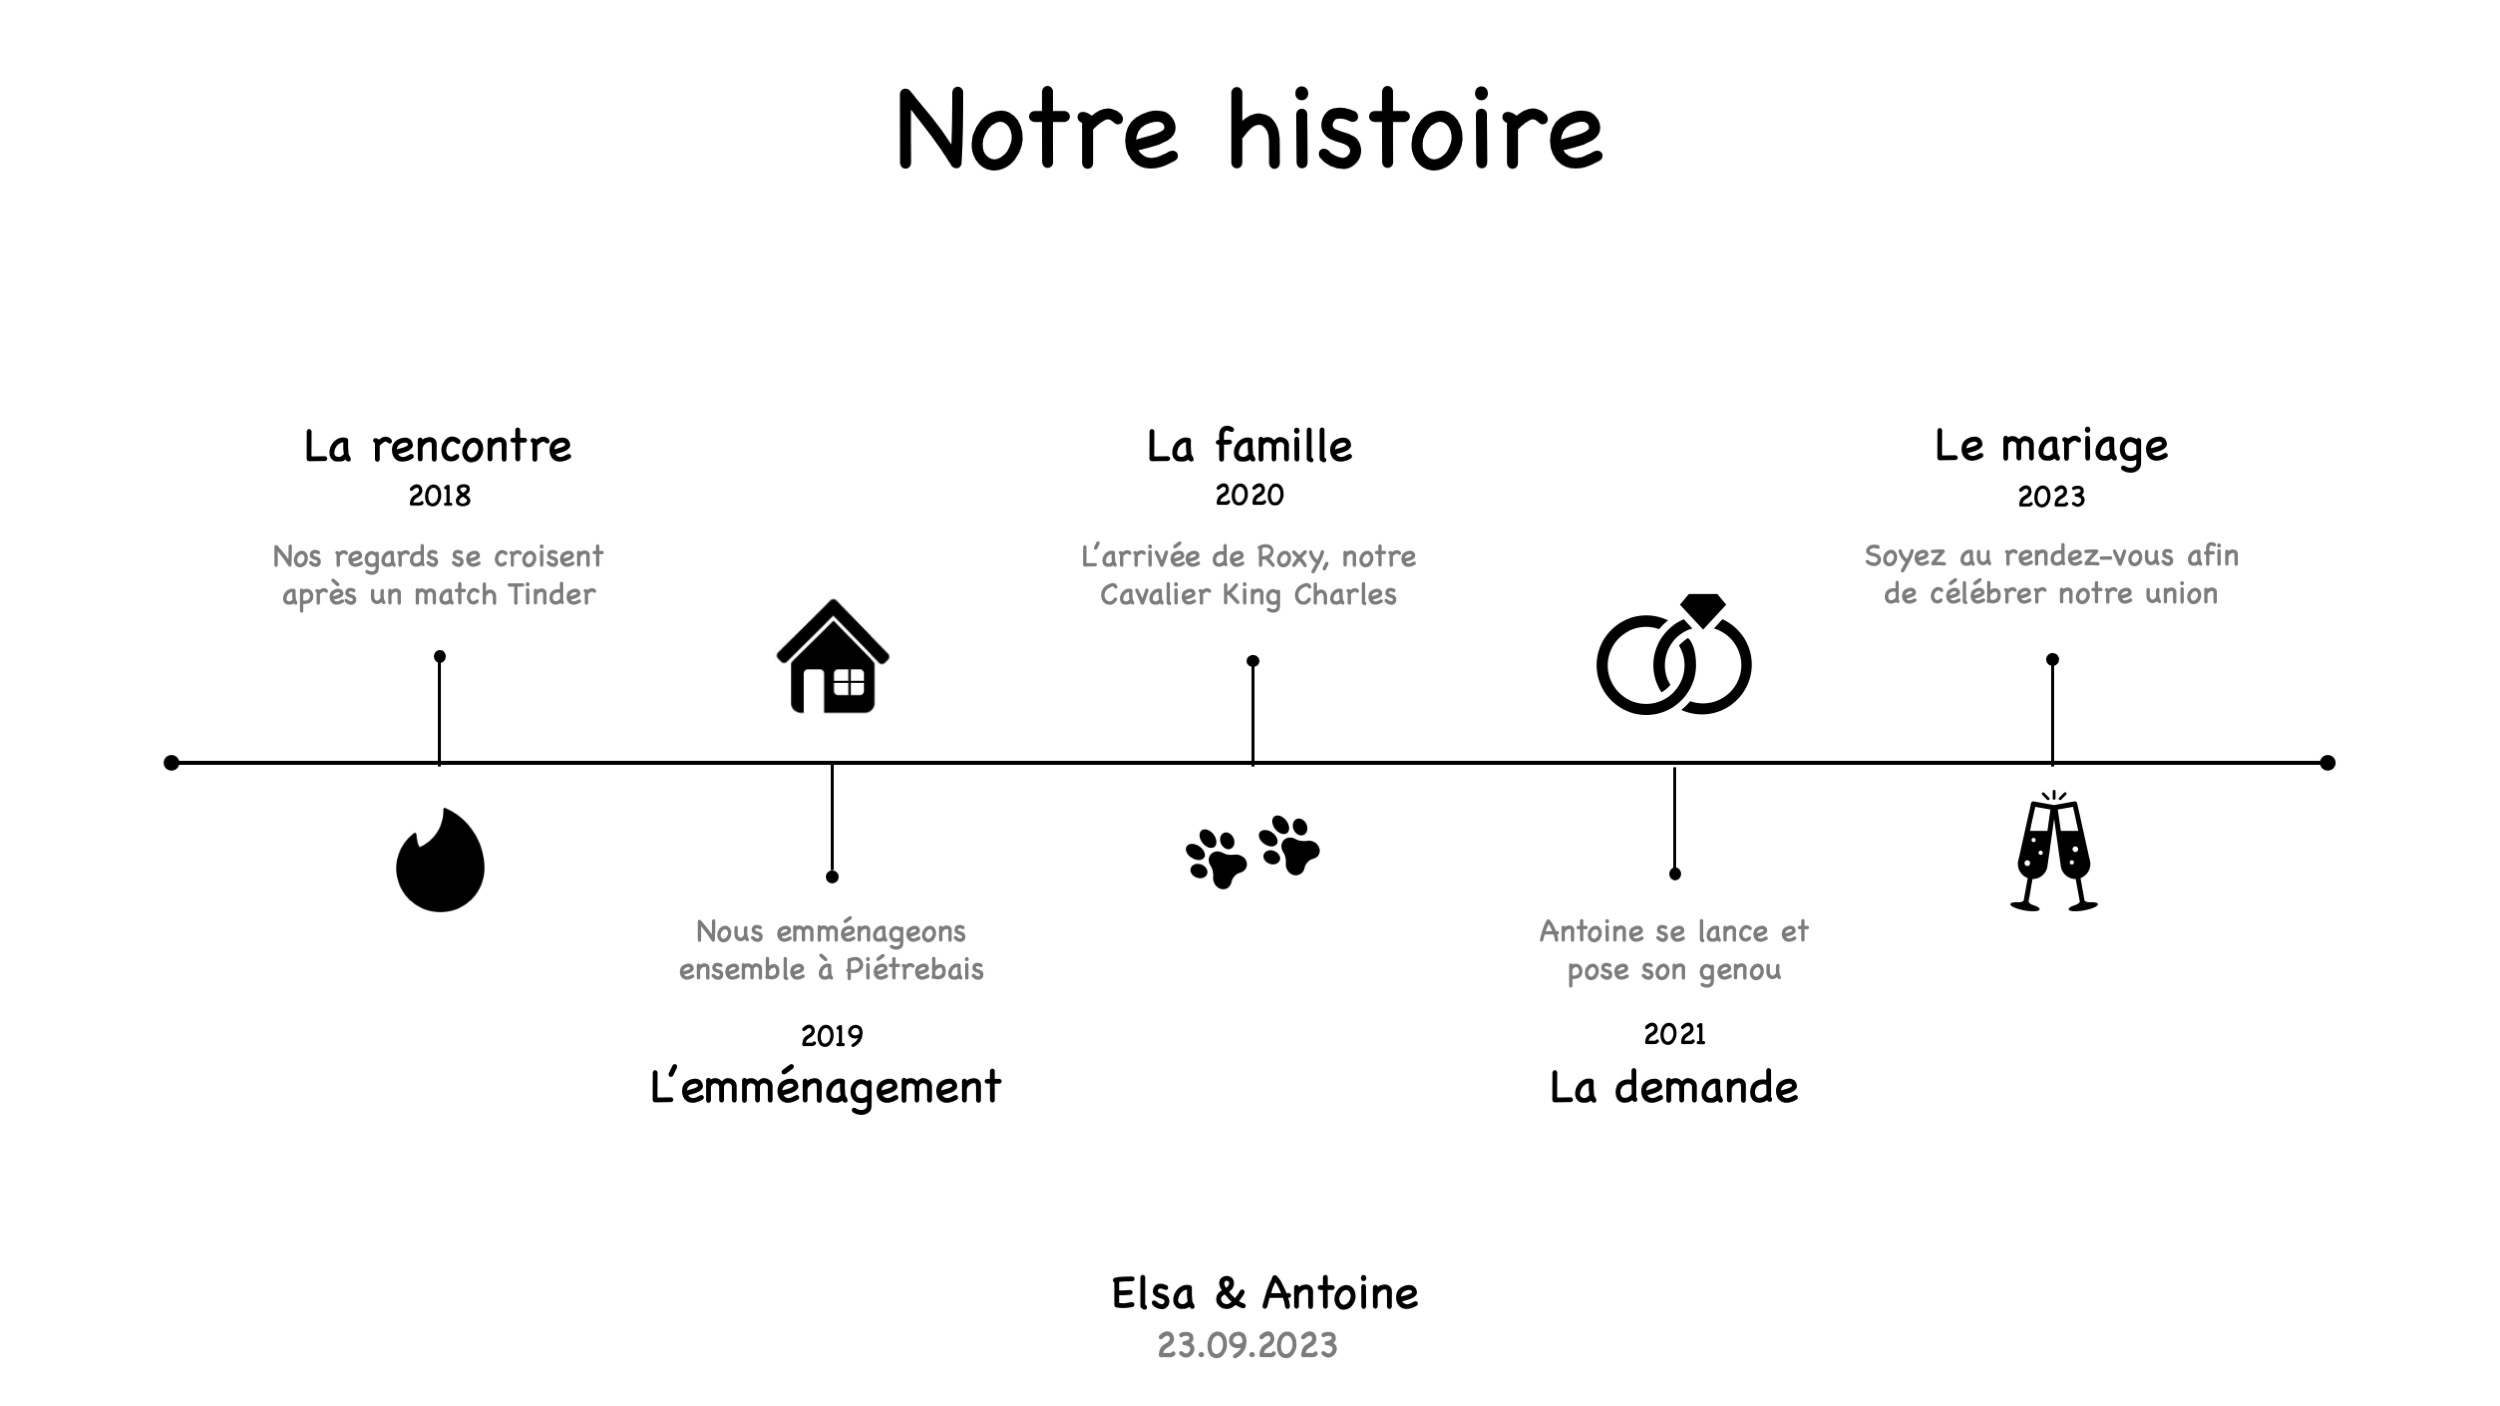
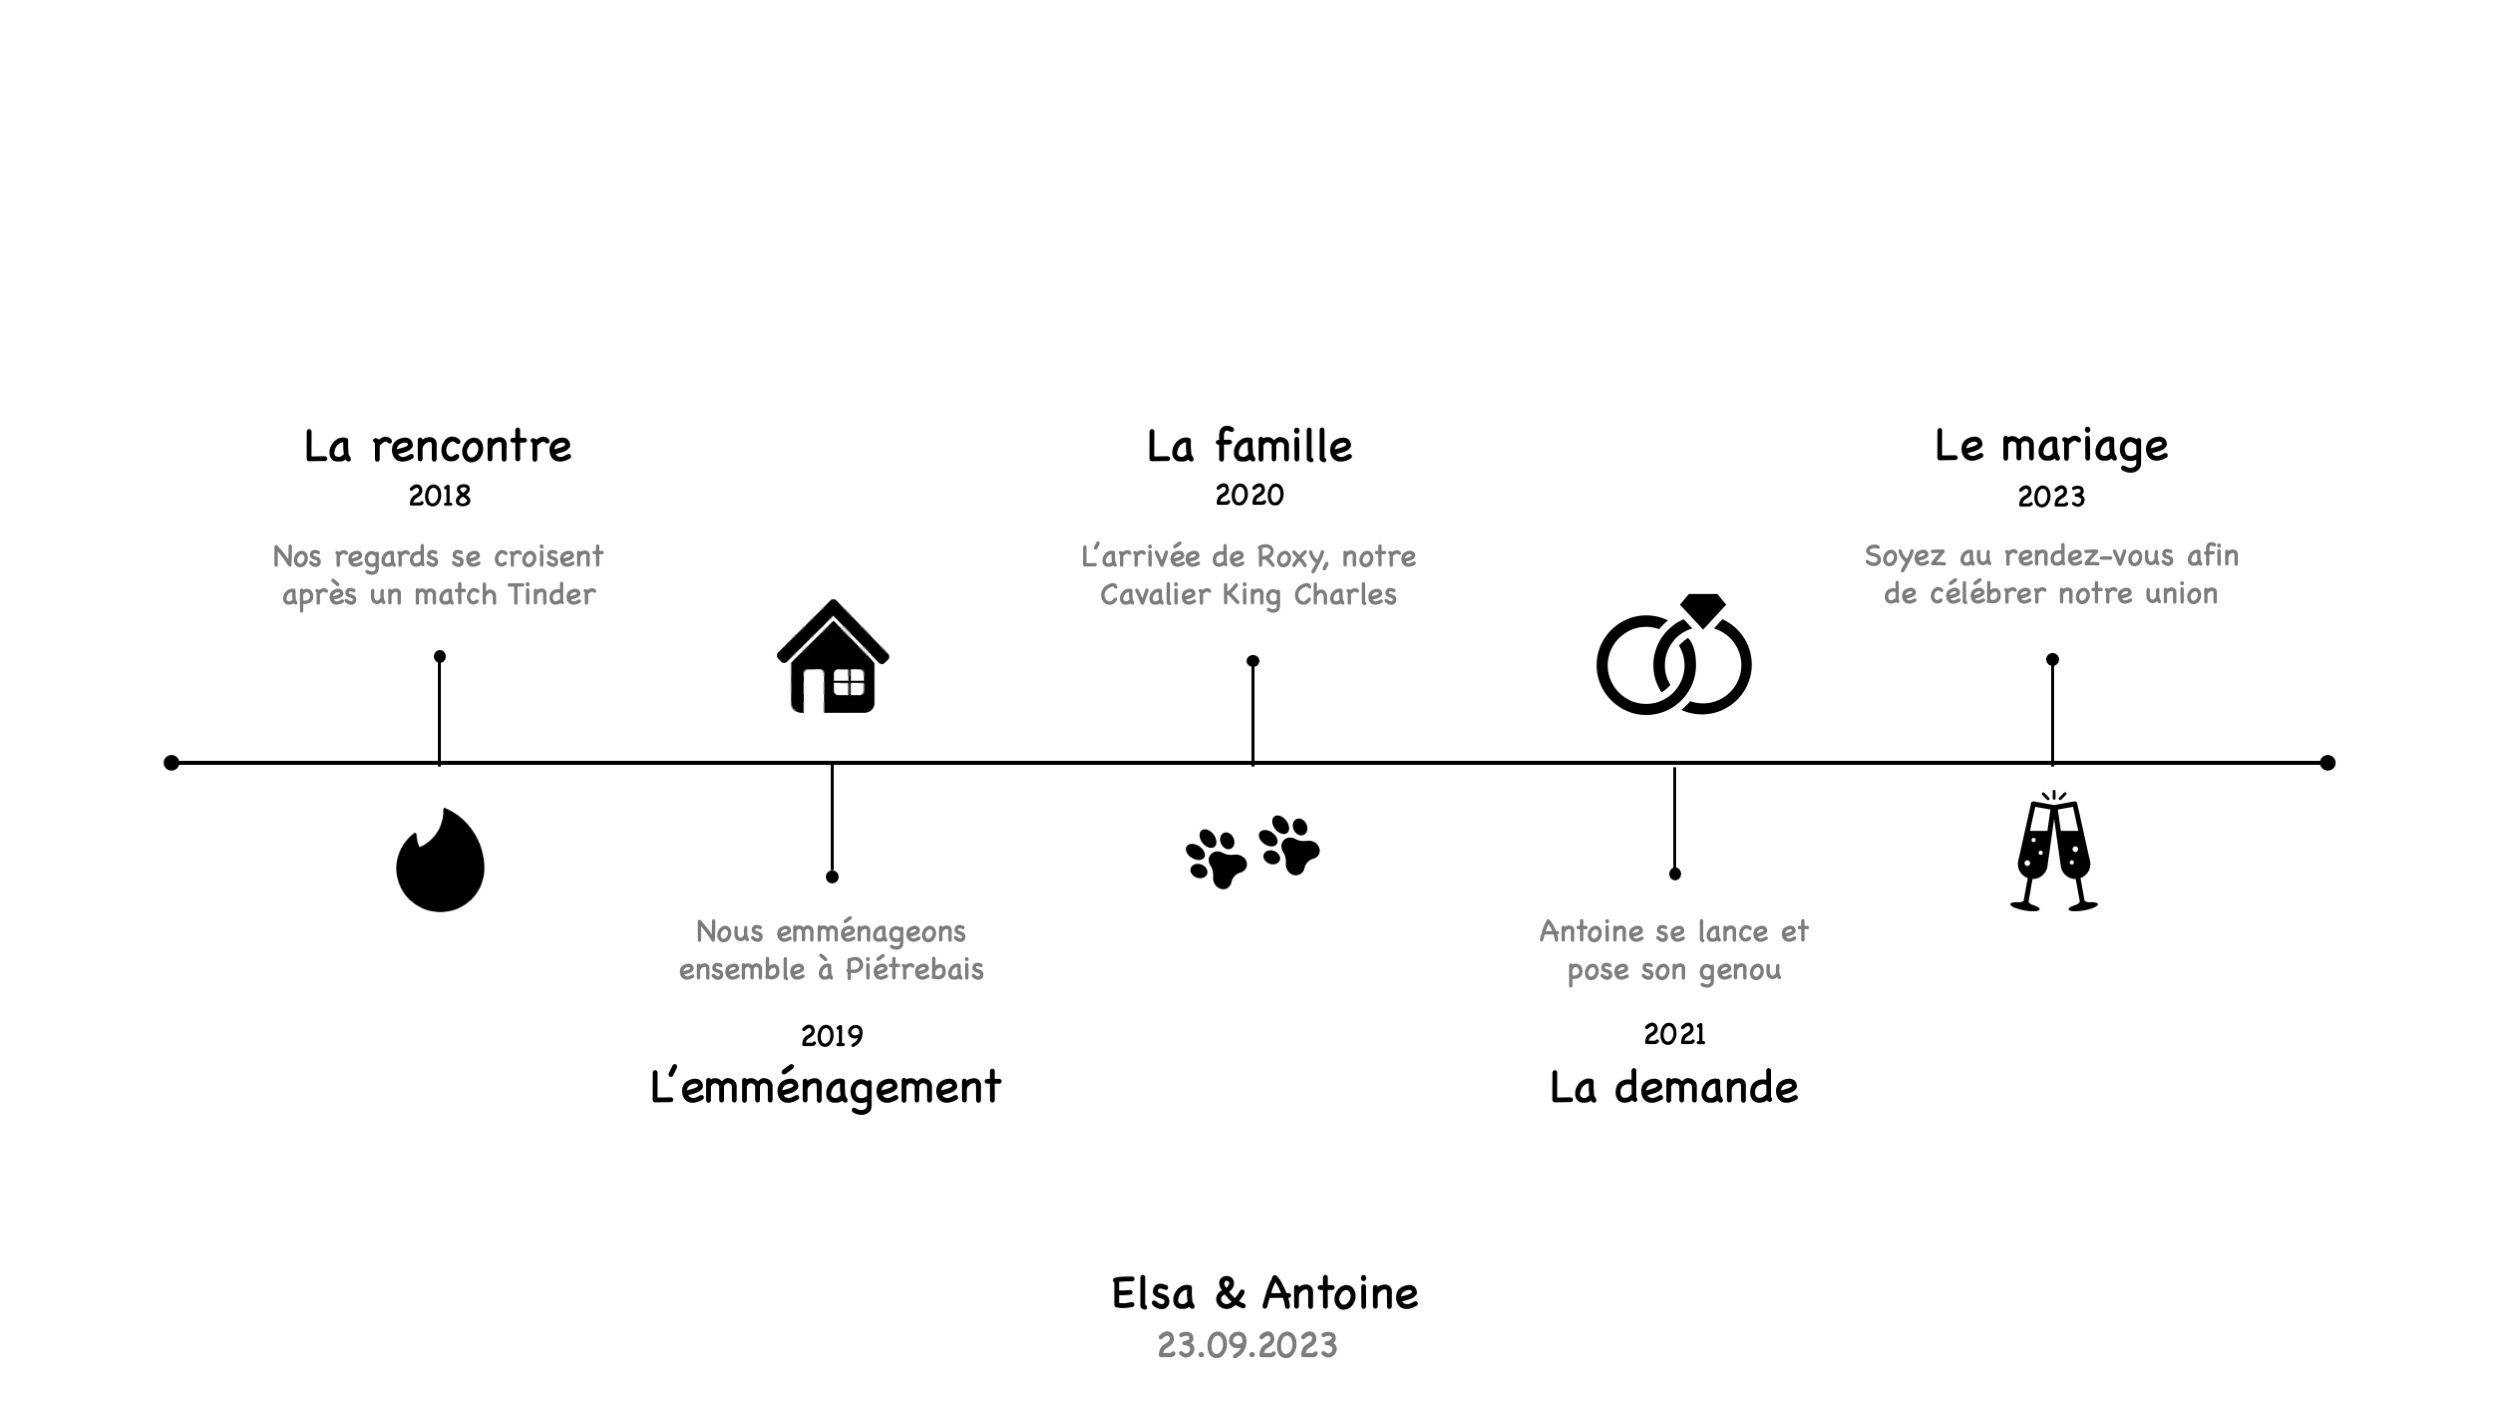
test histoire

Changed region(s): [[0.3432, 0.0612, 0.6552, 0.1223]]

diff --git a/content/histoire.md b/content/histoire.md
@@ -1,5 +1,5 @@
 ---
-title: ""
+title: "Notre histoire"
 description: "Un aperçu de notre histoire"
 layout: "simple"
 ---
